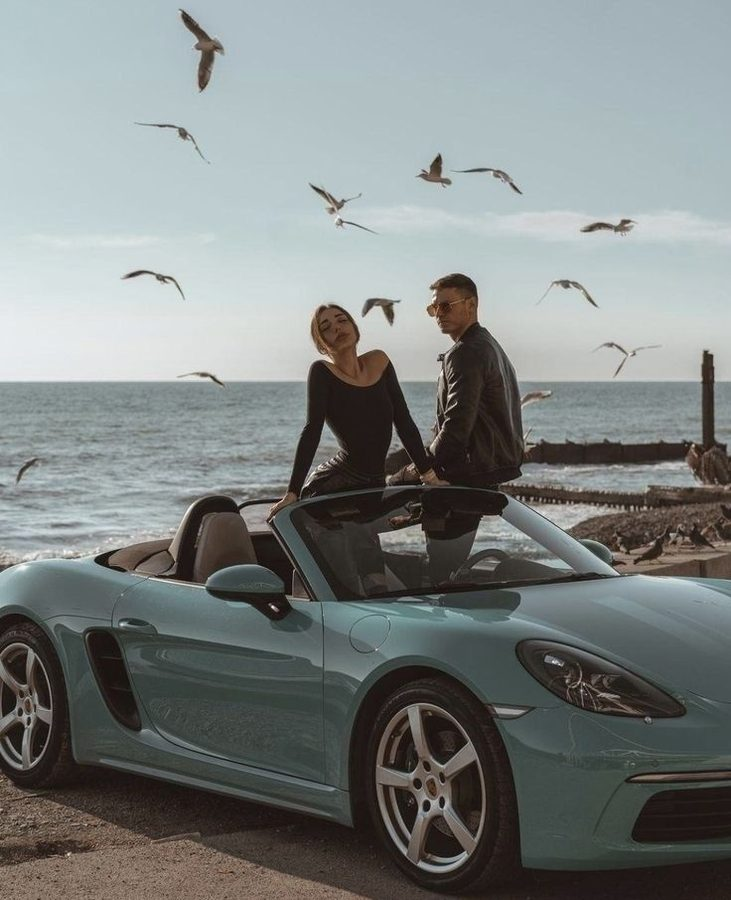
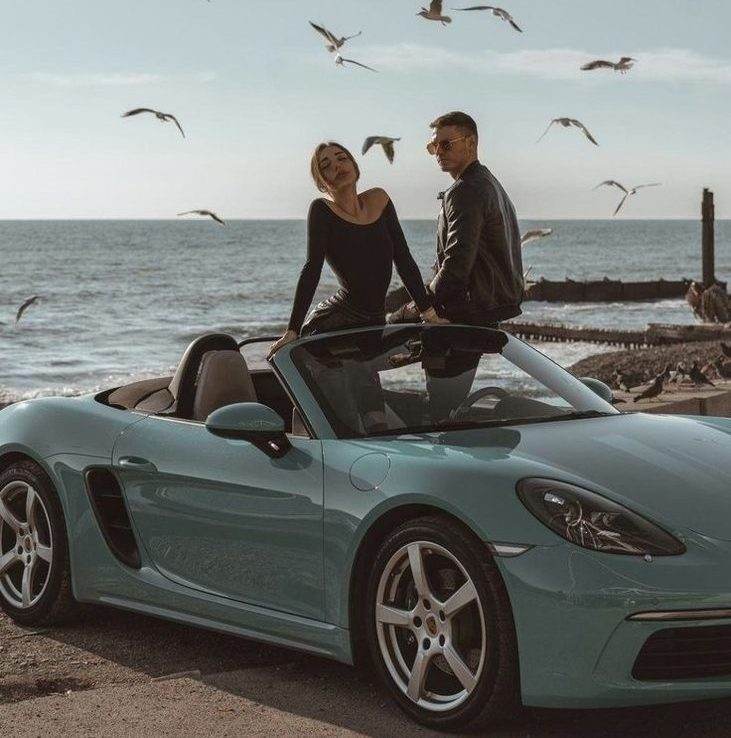
Route cards: crop Polyana and Kabrio photos to raise subjects

diff --git a/index.html b/index.html
@@ -898,7 +898,7 @@ footer{background:var(--dark);padding:64px 0 34px;border-top:1px solid rgba(255,
         </div>
       </article>
       <article class="route-card reveal d2">
-        <div class="rbg" data-bg="photos/situations/krasnaya-polyana.jpg" style="background:#1a0a06;background-size:cover;background-position:center 85%"></div>
+        <div class="rbg" data-bg="photos/situations/krasnaya-polyana.jpg" style="background:#1a0a06;background-size:cover;background-position:center center"></div>
         <span class="route-tag">Серпантин</span>
         <div class="route-body">
           <h3>Красная Поляна</h3>
@@ -908,7 +908,7 @@ footer{background:var(--dark);padding:64px 0 34px;border-top:1px solid rgba(255,
         </div>
       </article>
       <article class="route-card reveal d3">
-        <div class="rbg" data-bg="photos/situations/kabrio.jpg" style="background:#0a1a34;background-size:cover;background-position:center 50%"></div>
+        <div class="rbg" data-bg="photos/situations/kabrio.jpg" style="background:#0a1a34;background-size:cover;background-position:center center"></div>
         <span class="route-tag">Фото</span>
         <div class="route-body">
           <h3>Кадры у моря</h3>